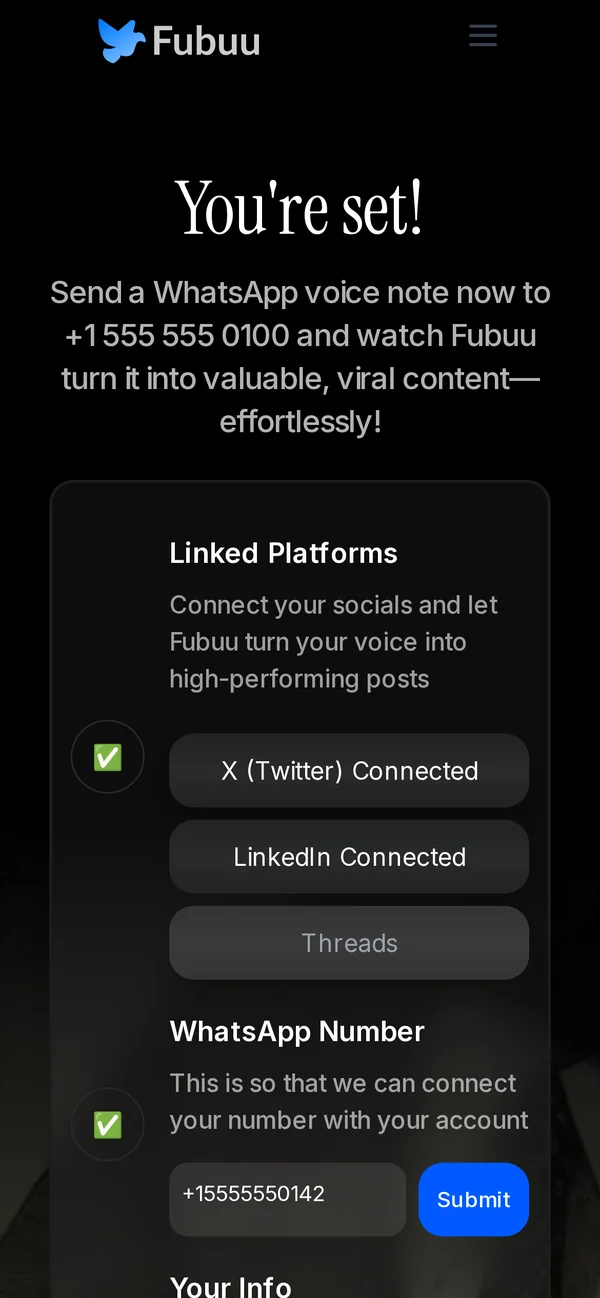
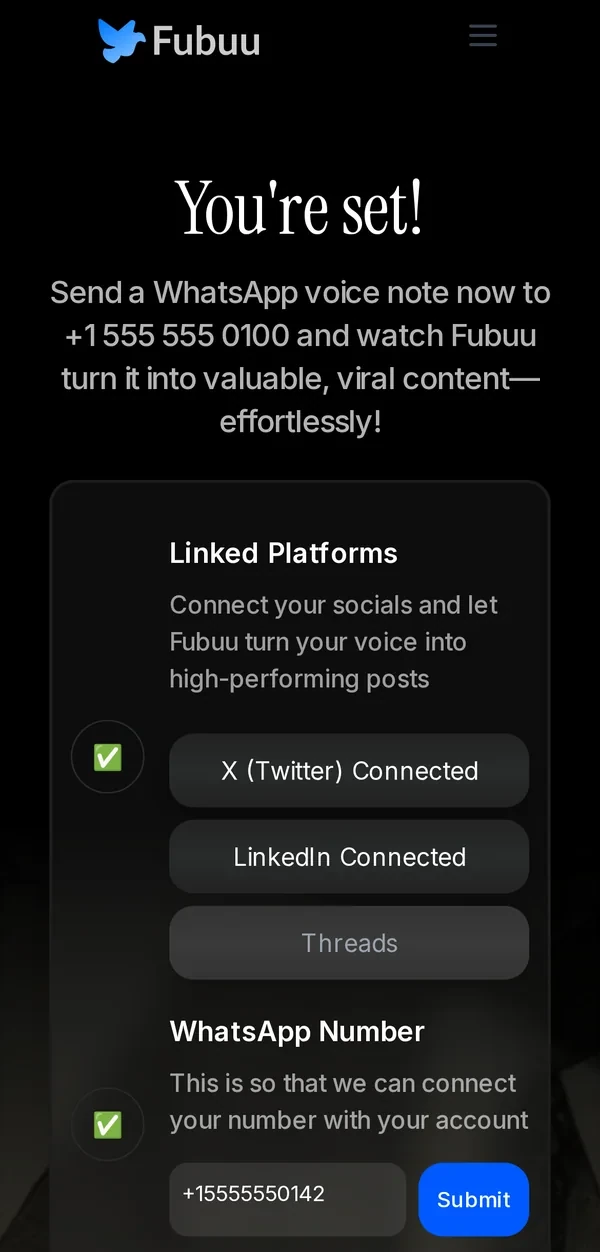
Docs site: mobile layout, phone-sized demo and screenshots, no Pages links

diff --git a/docs/index.html b/docs/index.html
@@ -7,10 +7,10 @@
 <meta name="description" content="Open-source app that turns WhatsApp voice notes into posts on X, LinkedIn and Threads. FastAPI + Next.js, MIT licensed, by Enzi Studio.">
 <meta property="og:title" content="Fubuu: say it out loud, post it everywhere">
 <meta property="og:description" content="WhatsApp voice notes in. Posts on X and LinkedIn out. Open source, MIT.">
-<meta property="og:image" content="https://enzihub.github.io/fubuu/og.png">
-<meta property="og:url" content="https://enzihub.github.io/fubuu/">
+<meta property="og:image" content="https://raw.githubusercontent.com/enzihub/fubuu/main/docs/og.png">
+<meta property="og:url" content="https://github.com/enzihub/fubuu">
 <meta name="twitter:card" content="summary_large_image">
-<meta name="twitter:image" content="https://enzihub.github.io/fubuu/og.png">
+<meta name="twitter:image" content="https://raw.githubusercontent.com/enzihub/fubuu/main/docs/og.png">
 <link rel="icon" href="img/fubuu.svg" type="image/svg+xml">
 <style>
 @font-face{font-family:Inter;src:url(fonts/Inter-latin.woff2) format('woff2');font-weight:100 900;font-display:swap}
@@ -20,10 +20,10 @@
 html{scroll-behavior:smooth}
 body{background:var(--bg);color:var(--ink);font:17px/1.6 Inter,system-ui,sans-serif;-webkit-font-smoothing:antialiased;overflow-x:hidden}
 a{color:inherit}
-img{max-width:100%;display:block}
+img{max-width:100%;height:auto;display:block}
 .wrap{max-width:1120px;margin:0 auto;padding:0 24px}
 .serif{font-family:'Instrument Serif',Georgia,serif;font-weight:400}
-nav{position:sticky;top:0;z-index:20;backdrop-filter:blur(14px);background:rgba(5,6,8,.72);border-bottom:1px solid var(--line)}
+nav{position:sticky;top:0;z-index:20;backdrop-filter:blur(14px);background:rgba(5,6,8,.94);border-bottom:1px solid var(--line)}
 nav .wrap{display:flex;align-items:center;gap:22px;height:64px}
 nav img{height:26px}
 nav .links{margin-left:auto;display:flex;gap:22px;font-size:15px;color:var(--mute)}
@@ -32,7 +32,7 @@ nav .links a:hover{color:var(--ink)}
 .btn{display:inline-flex;align-items:center;gap:8px;border-radius:14px;padding:12px 20px;font-weight:600;font-size:15px;text-decoration:none;transition:transform .2s,box-shadow .2s,background .2s}
 .btn.primary{background:var(--blue);color:#fff;box-shadow:0 10px 30px rgba(0,89,255,.35)}
 .btn.primary:hover{transform:translateY(-1px);box-shadow:0 14px 40px rgba(0,89,255,.5)}
-.btn.ghost{border:1px solid var(--line);color:var(--ink);background:rgba(255,255,255,.03)}
+.btn.ghost{border:1px solid rgba(255,255,255,.22);color:var(--ink);background:rgba(255,255,255,.03)}
 .btn.ghost:hover{background:rgba(255,255,255,.07)}
 .hero{position:relative;padding:88px 0 40px;overflow:hidden}
 .glow{position:absolute;border-radius:50%;filter:blur(90px);pointer-events:none;opacity:.7}
@@ -44,34 +44,34 @@ nav .links a:hover{color:var(--ink)}
 .dot{width:8px;height:8px;border-radius:50%;background:var(--green);box-shadow:0 0 12px var(--green)}
 h1{font-size:clamp(46px,7vw,84px);line-height:.98;letter-spacing:-.01em;margin:22px 0 22px}
 h1 em{color:var(--sky)}
-.lede{font-size:19px;color:var(--mute);max-width:520px}
+.lede{text-wrap:pretty;font-size:19px;color:var(--mute);max-width:520px}
 .typed{color:var(--ink);border-right:2px solid var(--sky);padding-right:2px;white-space:nowrap}
 .cta{display:flex;gap:12px;margin-top:30px;flex-wrap:wrap}
 .chat{position:relative}
 .bubble{border-radius:20px;padding:16px 18px;font-size:16px;line-height:1.5;border:1px solid var(--line)}
 .bubble.in{background:#0b3b2a;margin-left:48px;border-bottom-right-radius:6px}
-.lbl{font:600 11.5px Inter;letter-spacing:.12em;color:var(--dim);text-transform:uppercase;margin:0 0 8px 4px}
+.lbl{font:600 13px Inter;letter-spacing:.02em;color:var(--mute);margin:0 0 8px 4px}
 .post{margin-top:22px;background:var(--card);border:1px solid var(--line);border-radius:20px;padding:18px;display:grid;grid-template-columns:44px 1fr;gap:12px;box-shadow:0 30px 80px rgba(0,0,0,.6)}
 .av{width:44px;height:44px;border-radius:50%;background:linear-gradient(135deg,#ffb36b,#ff6b8b);display:grid;place-items:center;font-weight:700;color:#1b0b10}
 .who{font-weight:600}.who span{color:var(--dim);font-weight:400}
 .ptxt{margin-top:4px;white-space:pre-line}
 section{padding:72px 0;position:relative}
-h2{font-size:clamp(34px,5vw,52px);line-height:1.04;letter-spacing:-.01em;margin-bottom:14px}
-.sub{color:var(--mute);max-width:640px}
+h2{text-wrap:balance;font-size:clamp(34px,5vw,52px);line-height:1.04;letter-spacing:-.01em;margin-bottom:14px}
+.sub{text-wrap:pretty;color:var(--mute);max-width:640px}
 .frame{border-radius:20px;overflow:hidden;border:1px solid var(--line);box-shadow:0 40px 100px rgba(0,0,0,.65),0 0 0 1px rgba(0,0,0,.5);background:#000}
 .demo{margin-top:34px}
-.cap{font-size:14px;color:var(--dim);margin-top:12px;text-align:center}
+.cap{font-size:14px;color:var(--dim);margin-top:12px}
 .steps{display:grid;grid-template-columns:repeat(4,1fr);gap:18px;margin-top:36px}
 .step{background:rgba(255,255,255,.03);border:1px solid var(--line);border-radius:18px;padding:22px 20px;transition:border-color .3s,transform .3s}
 .step:hover{border-color:rgba(143,180,255,.4);transform:translateY(-2px)}
 .n{font:600 12px Inter;letter-spacing:.12em;color:var(--sky)}
 .step h3{font-size:19px;margin:10px 0 8px;letter-spacing:-.01em}
-.step p{font-size:15px;color:var(--mute)}
+.step p{font-size:15px;color:var(--mute);text-wrap:pretty}
 .step code{display:block;margin-top:14px;padding-top:12px;border-top:1px solid var(--line);font:500 12.5px ui-monospace,monospace;color:#a6b6d9}
 .feat{display:grid;grid-template-columns:1fr 1fr;gap:44px;align-items:center;margin-top:56px}
 .feat.rev .txt{order:2}
-.feat h3{font-size:30px;line-height:1.1;margin-bottom:12px}
-.feat p{color:var(--mute)}
+.feat h3{text-wrap:balance;font-size:30px;line-height:1.1;margin-bottom:12px}
+.feat p{color:var(--mute);text-wrap:pretty}
 .feat ul{margin-top:14px;list-style:none;color:var(--mute);font-size:15.5px}
 .feat li{padding-left:22px;position:relative;margin:6px 0}
 .feat li:before{content:"";position:absolute;left:2px;top:10px;width:8px;height:8px;border-radius:50%;background:var(--blue)}
@@ -82,6 +82,7 @@ pre .c{color:var(--dim)}
 .tile{border:1px solid var(--line);border-radius:16px;padding:18px 18px;background:rgba(255,255,255,.02)}
 .tile b{display:block;margin-bottom:4px}
 .tile span{color:var(--mute);font-size:15px}
+.end{padding-top:24px;text-align:left}
 footer{border-top:1px solid var(--line);padding:36px 0 48px;color:var(--dim);font-size:14.5px}
 footer .wrap{display:flex;gap:18px;flex-wrap:wrap;align-items:center}
 footer img{height:22px}
@@ -98,11 +99,46 @@ footer .r{margin-left:auto}
  .bubble.in{margin-left:24px}
 }
 @media (max-width:520px){
- pre{font-size:12.5px;padding:16px}
+ body{font-size:16px}
+ nav{position:relative}
+ :root{--mute:#b9bdc6;--dim:#8d929c;--line:rgba(255,255,255,.13)}
+ .wrap{padding:0 20px}
+ nav .wrap{height:58px;gap:12px}
+ nav img{height:24px}
+ nav .links{gap:4px;font-size:15px}
+ nav .links a{padding:10px 8px}
+ nav .links a[href="#start"]{display:none}
+ .hero{padding:36px 0 8px}
+ .hero .g1{width:420px;height:340px;right:-160px;top:-160px}
+ .eyebrow{font-size:12.5px;padding:5px 12px}
+ h1{font-size:44px;margin:16px 0 14px}
+ .lede{font-size:16.5px}
+ .cta{display:grid;grid-template-columns:1fr;gap:10px;margin-top:24px}
+ .cta .btn{justify-content:center;padding:14px 18px}
+ .hero-grid{gap:34px}
+ .bubble{font-size:15px;padding:14px 16px}
+ .bubble.in{margin-left:28px}
+ .post{grid-template-columns:40px 1fr;padding:16px;gap:10px;margin-top:16px}
+ .av{width:40px;height:40px;font-size:14px}
+ .who{font-size:15px}.who span{display:block;font-size:13.5px}
+ .ptxt{font-size:15.5px;margin-top:6px}
+ section{padding:44px 0}
+ h2{font-size:38px}
+ .sub{font-size:16px}
+ .demo{margin-top:28px;max-width:400px;margin-left:auto;margin-right:auto}
+ .feat .frame:not(.phone){max-width:400px;margin:0 auto}
+ .steps{grid-template-columns:1fr;gap:12px;margin-top:26px}
+ .step{padding:18px 18px}
+ .step h3{font-size:18px;margin:8px 0 6px}
+ .feat{gap:22px;margin-top:40px}
+ .feat:first-child{margin-top:0}
+ .feat h3{font-size:28px}
+ .phone{max-width:270px;border-width:7px;border-radius:30px}
+ pre{font-size:12.5px;padding:16px;margin-top:20px}
+ .grid3{gap:10px;margin-top:20px}
+ .tile{padding:14px 16px}
+ footer{padding:28px 0 36px}
  footer .r{margin-left:0}
- .steps{grid-template-columns:1fr}
- nav .links{gap:14px}
- .typed{white-space:normal}
 }
 @media (prefers-reduced-motion:reduce){
  html{scroll-behavior:auto}
@@ -116,7 +152,7 @@ footer .r{margin-left:auto}
 <nav><div class="wrap">
  <a href="#top" aria-label="Fubuu home"><img src="img/fubuu.svg" alt="Fubuu"></a>
  <div class="links">
-  <a href="#demo">Demo</a><a href="#how" class="hide">How it works</a><a href="#start">Run it</a>
+  <a href="#demo">Demo</a><a href="#how" class="hide">How it works</a><a href="#start">Run locally</a>
   <a href="https://github.com/enzihub/fubuu">GitHub</a>
  </div>
 </div></nav>
@@ -134,7 +170,7 @@ footer .r{margin-left:auto}
    </div>
   </div>
   <div class="chat">
-   <div class="lbl">WhatsApp · 9:41</div>
+   <div class="lbl">WhatsApp · 9:41 am</div>
    <div class="bubble in">ok so I realised today that most founders don't have a marketing problem, they have a consistency problem. You don't need a viral thread…</div>
    <div class="post"><div class="av">MO</div><div>
     <div class="who">Maya Ortiz <span>@maya_builds · now</span></div>
@@ -143,7 +179,7 @@ footer .r{margin-left:auto}
 → You don't need a viral thread.
 
 → Tiny posts, every day, beat one big launch.</div></div></div>
-   <p class="cap" style="text-align:left;margin-left:4px">Real output from the local demo. Maya is invented.</p>
+   <p class="cap" style="margin-left:4px">Real output from the local demo. Maya is invented.</p>
   </div>
  </div>
 </header>
@@ -153,7 +189,7 @@ footer .r{margin-left:auto}
   <h2 class="serif">A note goes in. Posts come out.</h2>
   <p class="sub">This is the real backend running on a laptop. WhatsApp, X, LinkedIn and the AI model are local stand-ins, so you can try the whole loop without a single account.</p>
  </div>
- <div class="frame demo reveal"><img src="img/demo.gif" width="960" height="569" alt="Animated: a note is typed into the WhatsApp stub; the Fubuu backend replies, writes a post for X and one for LinkedIn and posts both."></div>
+ <div class="frame demo reveal"><picture><source media="(max-width:700px)" srcset="img/demo-m.gif" width="431" height="606"><img src="img/demo.gif" width="960" height="569" alt="Animated: a note is typed into the WhatsApp stub; the Fubuu backend replies, writes a post for X and one for LinkedIn and posts both."></picture></div>
  <p class="cap">Recorded headless from <code>demo/run.sh</code>. All people and posts are invented.</p>
 </div></section>
 
@@ -165,7 +201,7 @@ footer .r{margin-left:auto}
  <div class="steps">
   <div class="step reveal"><div class="n">01 · CAPTURE</div><h3>You send a thought</h3><p>A voice note or a text to your Fubuu WhatsApp number. Twilio forwards it to the backend.</p><code>POST /whatsapp-webhook</code></div>
   <div class="step reveal"><div class="n">02 · UNDERSTAND</div><h3>Fubuu transcribes it</h3><p>Audio becomes text with Whisper. Your plan and daily limits are checked in Redis.</p><code>FFmpeg · Whisper · Redis</code></div>
-  <div class="step reveal"><div class="n">03 · WRITE</div><h3>AI writes the post</h3><p>Your bio and optional prompt shape a hook-first post for each platform.</p><code>OpenAI · your prompt</code></div>
+  <div class="step reveal"><div class="n">03 · WRITE</div><h3>AI writes the post</h3><p>Your bio and optional prompt shape a hook&#8209;first post for each platform.</p><code>OpenAI · your prompt</code></div>
   <div class="step reveal"><div class="n">04 · PUBLISH</div><h3>Posted and confirmed</h3><p>Fubuu posts with your connected accounts, then replies on WhatsApp with what went out.</p><code>X · LinkedIn · Threads</code></div>
  </div>
 </div></section>
@@ -184,14 +220,14 @@ footer .r{margin-left:auto}
    <h3 class="serif">Written like you, per platform</h3>
    <p>Short and hook-first for X and Threads, a fuller post with a question for LinkedIn. Daily limits per platform keep your feed sane, and three gentle prompts a day, in your time zone, keep the habit going.</p>
   </div>
-  <div class="frame"><img src="img/console.webp" width="1600" height="949" alt="The demo console: a WhatsApp note on the left, the X and LinkedIn posts it produced on the right."></div>
+  <div class="frame"><picture><source media="(max-width:700px)" srcset="img/console-m.webp" width="864" height="1210"><img src="img/console.webp" width="1600" height="949" alt="The demo console: a WhatsApp note, and the X and LinkedIn posts it produced."></picture></div>
  </div>
  <div class="feat reveal">
   <div class="txt">
    <h3 class="serif">Works on the phone you already hold</h3>
    <p>There is no new app to open. Users talk to WhatsApp; the web app is only for setup, settings and billing (Stripe checkout and customer portal).</p>
   </div>
-  <div class="frame phone"><img src="img/mobile.webp" width="600" height="1298" alt="The Fubuu dashboard on a phone."></div>
+  <div class="frame phone"><img src="img/mobile.webp" width="600" height="1252" alt="The Fubuu dashboard on a phone."></div>
  </div>
 </div></section>
 
@@ -215,9 +251,15 @@ http://127.0.0.1:3000/dashboard</pre>
  </div>
 </div></section>
 
+<section class="end"><div class="wrap reveal">
+ <h2 class="serif">Take it, fork it, ship it.</h2>
+ <p class="sub">The whole product is here under MIT: backend, web app and a demo that runs offline.</p>
+ <div class="cta"><a class="btn primary" href="https://github.com/enzihub/fubuu">View on GitHub</a><a class="btn ghost" href="#start">Run the demo locally</a></div>
+</div></section>
+
 <footer><div class="wrap">
  <img src="img/fubuu.svg" alt="Fubuu">
- <span>Built by Enzi Studio in 2025, shared as-is. MIT licence.</span>
+ <span>Built by Enzi Studio in 2025, shared as&#8209;is. MIT&nbsp;licence.</span>
  <a class="r" href="https://github.com/enzihub/fubuu">github.com/enzihub/fubuu</a>
 </div></footer>
 

diff --git a/README.md b/README.md
@@ -1,12 +1,11 @@
 <div align="center">
 
-<a href="https://enzihub.github.io/fubuu/">
+<a href="#see-it-work">
   <img src="assets/hero.png" width="1000" alt="Fubuu: say it out loud, post it everywhere. A WhatsApp note about founders and consistency becomes a post on X, shown as real output from the local demo.">
 </a>
 
 <br>
 
-**[Website](https://enzihub.github.io/fubuu/)** ·
 **[Demo](#see-it-work)** ·
 **[Features](#features)** ·
 **[How it works](#how-it-works)** ·
@@ -122,7 +121,7 @@ Every variable is listed, blank, in [`core/.env.example`](core/.env.example) and
 
 ## Status
 
-Built by Enzi Studio in 2025 and shared as-is; it has been dormant since. The code is the product as it was, plus the changes needed to publish it: secrets moved to env vars, analytics and tracking removed, a local demo mode, and fixed tests. The original marketing site was a hosted page builder export and is not included; [`docs/`](https://enzihub.github.io/fubuu/) is a new page.
+Built by Enzi Studio in 2025 and shared as-is; it has been dormant since. The code is the product as it was, plus the changes needed to publish it: secrets moved to env vars, analytics and tracking removed, a local demo mode, and fixed tests. The original marketing site was a hosted page builder export and is not included; [`docs/`](docs/) is a new one-page site you can open locally or host anywhere.
 
 Things to know: posting to X needs your own X developer app with write access, Threads needs a custom OAuth provider in Clerk, and the rewrite in demo mode is a simple rule-based stand-in, not a model.
 
